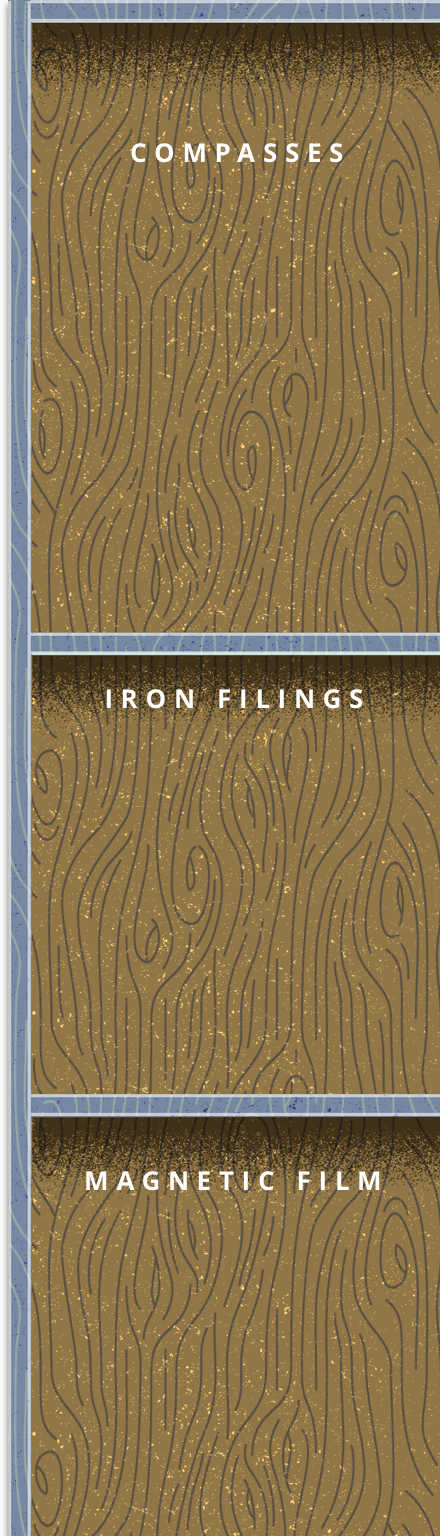
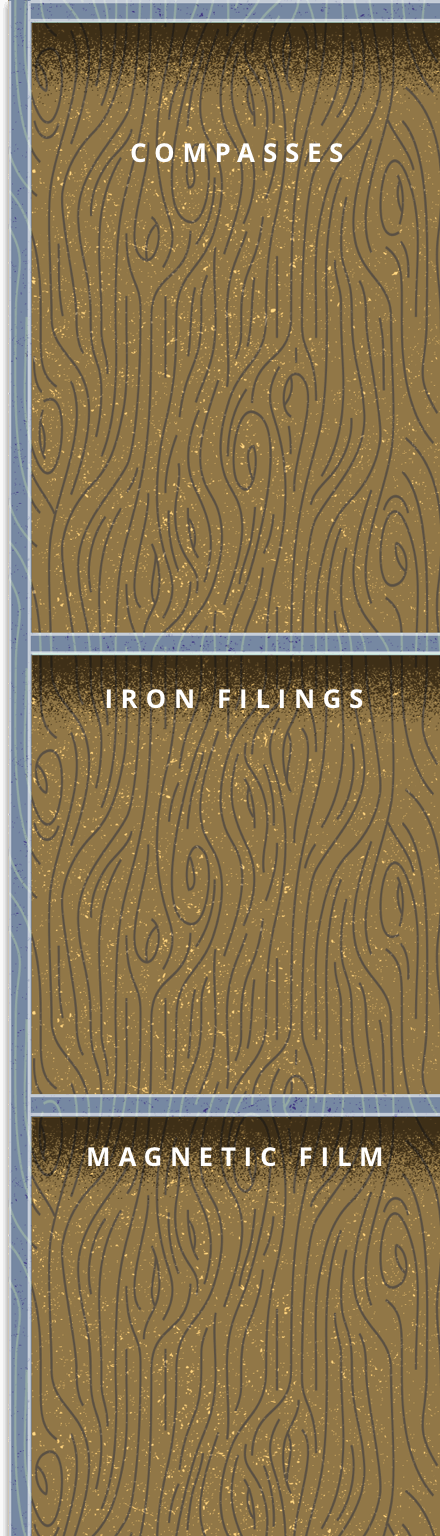
Fix magnetic film placement

diff --git a/src/scenes/gameplayScene.js b/src/scenes/gameplayScene.js
@@ -159,7 +159,7 @@ var GamePlayScene = function(game, stage)
     filings.blurred = true;
     filings.vec_l = 5;
     dragger.register(filings);
-    film = new FieldView(dc.width-sidebar_w+sidebar_xb+(sidebar_w-sidebar_xb)/2-fieldview_s/2,515);
+    film = new FieldView(dc.width-sidebar_w+sidebar_xb+(sidebar_w-sidebar_xb)/2-fieldview_s/2,506);
     film.colored = true;
     film.vec_l = 1;
     dragger.register(film);
